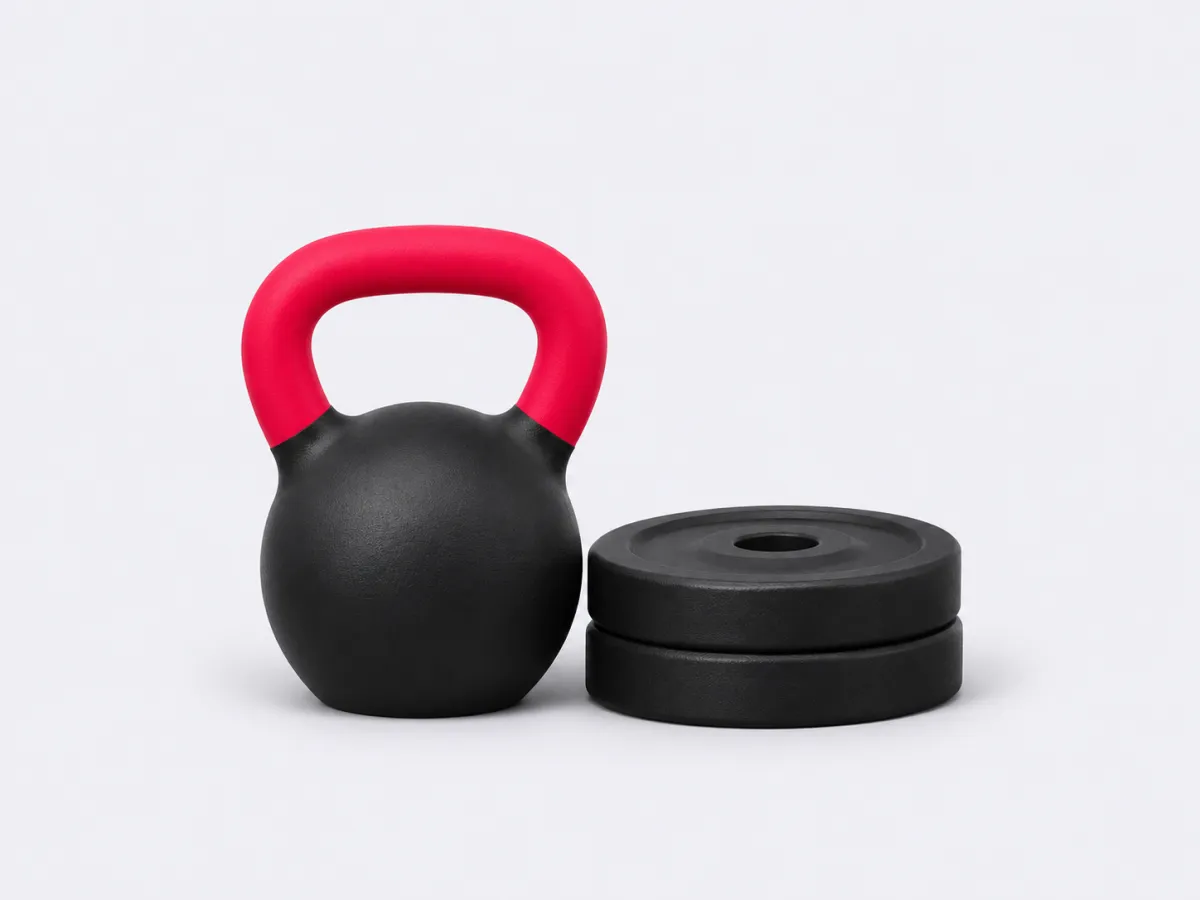
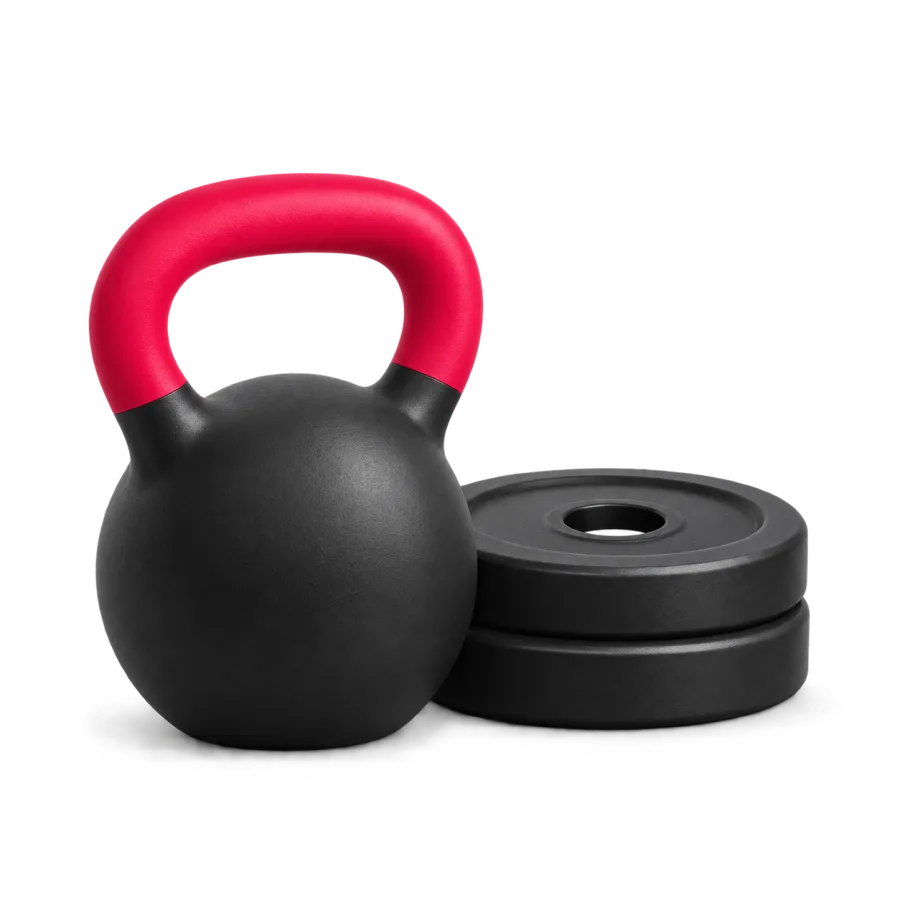
docs(F064): images stand alone, never as a background
After the owner's comments: an image now sits beside the headline with the
screens below it on clean canvas. Replaces the rejected rooms and close-ups with
transparent objects, miniatures and number posters to choose from.

Changed region(s): [[0.0933, 0.1867, 0.9022, 0.84]]

diff --git a/docs/design/website/site.js b/docs/design/website/site.js
@@ -4,7 +4,7 @@
   var EXTRA = ["richting", "prijzen", "demo", "support", "account-verwijderen", "privacy", "voorwaarden", "subverwerkers", "beeld"];
   var root = document.documentElement;
   var page = document.getElementById("page"), nav = document.getElementById("nav"), foot = document.getElementById("foot"), review = document.getElementById("review");
-  var S = { lang: "nl", who: "gym", kind: "pilates", demo: 0, plat: "pro", style: "rooms" };
+  var S = { lang: "nl", who: "gym", kind: "pilates", demo: 0, plat: "pro", style: "obj" };
   try { S.lang = localStorage.getItem("fivvi-site-lang") || "nl"; } catch (e) { /* storage unavailable */ }
 
   function t(x) { return x[S.lang === "en" ? 1 : 0]; }
@@ -27,19 +27,15 @@
     if (id.indexOf("web-") === 0) return '<div class="browser ' + (cls || "") + '">' + img(id, eager) + "</div>";
     return '<div class="phone ' + (id.indexOf("android") > -1 ? "android " : "") + (cls || "") + '">' + img(id, eager) + "</div>";
   }
-  /* the image-style comparison (#beeld): which photo each style uses for a subject */
-  var STYLE_KEY = { team: "gym", gym: "gym", pilates: "studio", yoga: "studio", pt: "pt", client: "client" };
-  function photoSrc(name, style) {
+  /* An audience's image stands on its own and is never a background (owner). */
+  var ART_KEY = { gym: "gym", studio: "studio", pt: "pt", klanten: "client" };
+  function art(k, style) {
     style = style || S.style;
-    return "assets/photos/" + (style === "obj" || style === "mov" ? style + "-" + STYLE_KEY[name] : name) + ".webp";
-  }
-  function photo(name, cls) { return '<img class="' + (cls || "") + '" src="' + photoSrc(name) + '" alt="" loading="lazy">'; }
-  /* a card's image: a photo, or for screens only a phone on the audience's tint */
-  function cardImage(k, style) {
-    style = style || S.style;
-    if (style !== "screens") return '<img class="ph" src="' + photoSrc(A[k].photo, style) + '" alt="" loading="lazy">';
-    var st = A[k].stage;
-    return '<div class="ph shot" style="--c:' + colour(A[k].colour) + '">' + device(st.phone || st.phones[0]) + "</div>";
+    if (style === "num") {
+      var n = P.styles.posters[k];
+      return '<div class="poster" style="--c:' + colour(n[0]) + '"><b class="num">' + n[1] + "</b><span>" + t(n[2]) + "</span></div>";
+    }
+    return '<img class="art" src="assets/photos/' + style + "-" + ART_KEY[k] + '.webp" alt="" loading="lazy">';
   }
   function colour(k) { return { priv: "var(--priv)", group: "var(--group)", ok: "var(--ok)", accent: "var(--accent)" }[k]; }
   function who(s) { return s.split("{who}").join(S.kind === "yoga" ? (S.lang === "en" ? "teacher" : "docent") : (S.lang === "en" ? "instructor" : "instructeur")); }
@@ -102,7 +98,7 @@
       '<li class="now"><span>' + t(UI.oneRow) + '</span><span class="tick">' + t(UI.oneRowD) + "</span></li></ul>" + device("web-agenda") + "</div></div></section>" +
       '<section><div class="wrap"><p class="eyebrow">' + t(UI.chainEye) + '</p><h2 class="h2">' + t(UI.chainH) + '</h2><p class="lead" style="margin-top:14px">' + t(UI.chainLead) + '</p><div class="chain" id="chain">' + chain() + "</div></div></section>" +
       '<section><div class="wrap"><p class="eyebrow">' + t(UI.forEye) + '</p><h2 class="h2">' + t(UI.forH) + '</h2><p class="lead" style="margin-top:14px">' + t(UI.forLead) + '</p><div class="cards">' +
-      ORDER.map(function (k) { return '<a class="acard" href="#' + k + '">' + cardImage(k) + "<div><h3>" + t(A[k].cardH) + "</h3><p>" + t(A[k].short) + '</p><span class="link">' + t(UI.readDay) + " →</span></div></a>"; }).join("") +
+      ORDER.map(function (k) { return '<a class="acard" href="#' + k + '">' + art(k) + "<div><h3>" + t(A[k].cardH) + "</h3><p>" + t(A[k].short) + '</p><span class="link">' + t(UI.readDay) + " →</span></div></a>"; }).join("") +
       "</div></div></section>" +
       '<section><div class="wrap"><p class="eyebrow">' + t(UI.platEye) + '</p><h2 class="h2">' + t(UI.platH) + '</h2><p class="lead" style="margin-top:14px">' + t(UI.platLead) + '</p><div class="who"><div class="seg" role="group" aria-label="' + t(UI.plat.pro.name) + " / " + t(UI.plat.client.name) + '">' + ["pro", "client"].map(function (k) { return '<button data-plat="' + k + '" aria-pressed="' + (S.plat === k) + '">' + t(UI.plat[k].name) + "</button>"; }).join("") + '</div></div><div id="devices">' + devices() + "</div>" +
       "</div></section>" + promises() + cta();
@@ -120,11 +116,10 @@
 
   function audience(k) {
     var a = A[k], isStudio = k === "studio";
-    var ph = isStudio && S.kind === "yoga" ? "yoga" : a.photo;
     var phone = isStudio ? "pro-today-" + S.kind : a.heroPhone;
     var kindSeg = isStudio ? '<div class="who"><p id="kind-l">' + t(UI.kindLabel) + '</p><div class="seg" role="group" aria-labelledby="kind-l">' + ["pilates", "yoga"].map(function (x) { return '<button data-kind="' + x + '" aria-pressed="' + (S.kind === x) + '">' + t(UI[x]) + "</button>"; }).join("") + "</div></div>" : "";
-    return '<div class="wrap hero ahero"><p class="eyebrow">' + t(a.cardH) + '</p><h1 style="margin-top:8px">' + t(a.h1) + '</h1><p class="lead">' + t(a.lead) + "</p>" + statusLine() + kindSeg +
-      '<div class="photo">' + (S.style === "screens" ? '<div class="blank" style="--c:' + colour(a.colour) + '"></div>' : '<img src="' + photoSrc(ph) + '" alt="">') + (a.heroWeb ? device(a.heroWeb, "", true) : "") + device(phone, "", true) + "</div></div>" +
+    var screens = a.heroWeb ? '<div class="swap mix">' + device(a.heroWeb, "", true) + '<div class="cell">' + device(phone, "", true) + "</div></div>" : '<div class="swap row">' + a.stage.phones.map(function (id) { return device(id, "", true); }).join("") + "</div>";
+    return '<div class="wrap hero ahero"><div class="herogrid"><div><p class="eyebrow">' + t(a.cardH) + '</p><h1 style="margin-top:8px">' + t(a.h1) + '</h1><p class="lead">' + t(a.lead) + "</p>" + statusLine() + kindSeg + '</div><div class="heroart">' + art(k) + '</div></div><div class="stage">' + screens + "</div></div>" +
       '<section style="padding-top:clamp(20px,4vw,48px)"><div class="wrap"><h2 class="h2">' + t(UI.recognise) + '</h2><ul class="pains">' + a.pains.map(function (p) { return "<li>" + t(p) + "</li>"; }).join("") + "</ul></div></section>" +
       '<section><div class="wrap"><p class="eyebrow">' + t(UI.dayEye) + '</p><p class="lead" style="margin-top:6px;color:var(--ink);font-weight:500">' + t(UI.dayLead) + '</p><div class="day">' +
       a.day.map(function (m) {
@@ -136,9 +131,7 @@
     var D = C.DIRECTION;
     return '<div class="wrap hero ahero"><p class="eyebrow">' + t(UI.direction) + '</p><h1 style="margin-top:8px">' + t(D.h1) + '</h1><p class="lead">' + t(D.lead) + '</p><p style="margin-top:14px"><a class="link" href="#beeld">' + t(P.styles.h1) + ' →</a></p><div class="dgrid">' +
       D.cards.map(function (c) { return '<div class="dcard"><h3>' + t(c[0]) + "</h3><p>" + t(c[1]) + "</p></div>"; }).join("") +
-      '</div><div class="dgrid"><div class="dcard"><h3>' + (S.lang === "en" ? "Colour" : "Kleur") + '</h3><div class="swatches"><i style="background:#F2F2F7"></i><i style="background:#FFFFFF"></i><i style="background:#000000"></i><i style="background:#1C1C1E"></i><i style="background:#E6164A"></i><i style="background:#0088FF"></i><i style="background:#CB30E0"></i><i style="background:#34C759"></i></div></div><div class="dcard"><h3>' + (S.lang === "en" ? "Type" : "Letter") + '</h3><div class="typeA">Vandaag</div><div class="typeB">07:30</div></div><div class="dcard"><h3>' + (S.lang === "en" ? "Corners and frames" : "Hoeken en lijsten") + "</h3><p>" + (S.lang === "en" ? "Radius 26 on every card, pills for every button, and iPhone, Android and laptop frames around real screens." : "Radius 26 op elke kaart, pillen voor elke knop, en iPhone-, Android- en laptoplijsten om echte schermen.") + '</p></div></div><div class="pair">' +
-      ["gym", "team", "pilates", "yoga", "pt", "client"].map(function (n) { return photo(n); }).join("") +
-      "</div></div>" + directionMore() + '<section><div class="wrap"><h2 class="h2">' + t(D.assumeH) + '</h2><ol class="olist" style="list-style:none;padding:0">' + D.assume.map(function (o) { return "<li><div><b>" + t(o[0]) + "</b><span>" + t(o[1]) + "</span></div></li>"; }).join("") + "</ol></div></section>";
+      '</div><div class="dgrid"><div class="dcard"><h3>' + (S.lang === "en" ? "Colour" : "Kleur") + '</h3><div class="swatches"><i style="background:#F2F2F7"></i><i style="background:#FFFFFF"></i><i style="background:#000000"></i><i style="background:#1C1C1E"></i><i style="background:#E6164A"></i><i style="background:#0088FF"></i><i style="background:#CB30E0"></i><i style="background:#34C759"></i></div></div><div class="dcard"><h3>' + (S.lang === "en" ? "Type" : "Letter") + '</h3><div class="typeA">Vandaag</div><div class="typeB">07:30</div></div><div class="dcard"><h3>' + (S.lang === "en" ? "Corners and frames" : "Hoeken en lijsten") + "</h3><p>" + (S.lang === "en" ? "Radius 26 on every card, pills for every button, and iPhone, Android and laptop frames around real screens." : "Radius 26 op elke kaart, pillen voor elke knop, en iPhone-, Android- en laptoplijsten om echte schermen.") + "</p></div></div></div>" + directionMore() + '<section><div class="wrap"><h2 class="h2">' + t(D.assumeH) + '</h2><ol class="olist" style="list-style:none;padding:0">' + D.assume.map(function (o) { return "<li><div><b>" + t(o[0]) + "</b><span>" + t(o[1]) + "</span></div></li>"; }).join("") + "</ol></div></section>";
   }
 
   function head(eye, h1, lead) { return '<div class="wrap hero ahero"><p class="eyebrow">' + t(eye) + '</p><h1 style="margin-top:8px">' + t(h1) + "</h1>" + (lead ? '<p class="lead">' + t(lead) + "</p>" : "") + statusLine(); }
@@ -181,7 +174,7 @@
     var X = P.styles;
     return head(X.eye, X.h1, X.lead) + X.list.map(function (o) {
       var on = S.style === o[0];
-      return '<section class="stylerow"><div class="stylehead"><div><h2>' + t(o[1]) + (o[0] === "obj" ? " <mark>" + t(X.rec) + "</mark>" : "") + "</h2><p>" + t(o[2]) + '</p></div><button class="btn ' + (on ? "tonal" : "primary") + ' small" data-style-pick="' + o[0] + '">' + t(on ? X.on : X.see) + '</button></div><div class="stylecards" data-style="' + o[0] + '">' + ORDER.map(function (k) { return '<div class="acard">' + cardImage(k, o[0]) + "<div><h3>" + t(A[k].cardH) + "</h3></div></div>"; }).join("") + "</div></section>";
+      return '<section class="stylerow"><div class="stylehead"><div><h2>' + t(o[1]) + (o[0] === "min" ? " <mark>" + t(X.rec) + "</mark>" : "") + "</h2><p>" + t(o[2]) + '</p></div><button class="btn ' + (on ? "tonal" : "primary") + ' small" data-style-pick="' + o[0] + '">' + t(on ? X.on : X.see) + '</button></div><div class="stylecards">' + ORDER.map(function (k) { return '<div class="acard">' + art(k, o[0]) + "<div><h3>" + t(A[k].cardH) + "</h3></div></div>"; }).join("") + "</div></section>";
     }).join("") + "</div>";
   }
 
@@ -199,7 +192,6 @@
   function render(keepScroll) {
     var y = window.scrollY, r = route();
     root.lang = S.lang === "en" ? "en" : "nl";
-    root.setAttribute("data-style", S.style);
     renderNav();
     var F = P.foot;
     page.innerHTML = r === "home" ? home() : r === "richting" ? direction() : r === "prijzen" ? pricing() : r === "demo" ? demo() : r === "support" ? support() : r === "account-verwijderen" ? deletion() : r === "privacy" ? legal("privacy", F.privacy) : r === "voorwaarden" ? legal("terms", F.terms) : r === "subverwerkers" ? subs() : r === "beeld" ? styles() : audience(r);

diff --git a/docs/design/website/site.css b/docs/design/website/site.css
@@ -155,25 +155,30 @@ section{padding:clamp(56px,8vw,104px) 0 0}
 .cards{display:grid;grid-template-columns:repeat(4,minmax(0,1fr));gap:14px;margin-top:36px}
 .acard{background:var(--card);border-radius:var(--r);overflow:hidden;display:flex;flex-direction:column;transition:transform .25s}
 .acard:hover{transform:translateY(-3px)}
-.acard .ph{aspect-ratio:4/3;object-fit:cover;width:100%}
+.acard .art{aspect-ratio:4/3;object-fit:contain;width:100%;padding:12px 0 0}
+.acard div.poster{aspect-ratio:4/3;flex:none;padding:18px;gap:4px}
+.acard .poster b{font-size:clamp(44px,5vw,64px)}
 .acard div{padding:18px 18px 20px;display:flex;flex-direction:column;gap:6px;flex:1}
 .acard h3{font-size:21px;line-height:1.15;letter-spacing:-.015em;font-weight:700}
 .acard p{color:var(--muted);font-size:15px;line-height:1.35;flex:1}
 .acard .link{margin-top:8px;font-size:15px}
 @media (max-width:980px){.cards{grid-template-columns:repeat(2,minmax(0,1fr))}}
 @media (max-width:460px){.cards{grid-template-columns:1fr}}
-.ph-dim{filter:none}
-:root[data-theme="dark"] .ph,:root[data-theme="dark"] .photo img{filter:brightness(.84)}
-@media (prefers-color-scheme:dark){:root:not([data-theme="light"]) .ph,:root:not([data-theme="light"]) .photo img{filter:brightness(.84)}}
 
-/* audience hero */
-.ahero h1{font-size:clamp(42px,6.8vw,84px);line-height:1;letter-spacing:-.036em;font-weight:700;max-width:13em}
+/* audience hero: words and image side by side, the screens below on clean canvas */
+.ahero h1{font-size:clamp(42px,6vw,76px);line-height:1;letter-spacing:-.036em;font-weight:700;max-width:13em}
 .ahero .lead{margin-top:18px}
-.photo{position:relative;margin-top:36px;padding-bottom:clamp(82px,10vw,130px)}
-.photo>img{width:100%;aspect-ratio:21/9;object-fit:cover;border-radius:var(--r)}
-.photo .phone{position:absolute;--w:clamp(150px,21vw,270px);right:clamp(16px,5vw,64px);bottom:6px}
-.photo .browser{position:absolute;width:clamp(240px,44vw,560px);left:clamp(16px,5vw,64px);bottom:0;box-shadow:0 0 0 .5px var(--sep),0 18px 50px rgba(0,0,0,.2)}
-@media (max-width:640px){.photo>img{aspect-ratio:4/3}.photo .browser{display:none}.photo{padding-bottom:110px}.photo .phone{--w:min(170px,42vw)}}
+.herogrid{display:grid;grid-template-columns:minmax(0,7fr) minmax(0,4fr);gap:clamp(20px,4vw,56px);align-items:center}
+.heroart .art{width:100%;aspect-ratio:1;object-fit:contain}
+.heroart .poster{aspect-ratio:1;border-radius:calc(var(--r)*1.4);padding:clamp(20px,3vw,34px)}
+.heroart .poster b{font-size:clamp(64px,8.6vw,124px)}
+.ahero .stage{margin-top:clamp(24px,4vw,48px)}
+@media (max-width:760px){.herogrid{grid-template-columns:1fr}.heroart{max-width:280px}}
+
+/* the numbers style: the app's gradient card as a poster */
+.poster{display:flex;flex-direction:column;justify-content:flex-end;gap:6px;color:#fff;background:linear-gradient(color-mix(in srgb,var(--c) 85%,#000),color-mix(in srgb,var(--c) 75%,#000))}
+.poster b{font-weight:800;line-height:1;letter-spacing:-.03em}
+.poster span{font-size:15px;line-height:1.25;font-weight:600}
 
 /* pains */
 .pains{display:grid;grid-template-columns:repeat(3,minmax(0,1fr));gap:14px;margin-top:32px}
@@ -233,12 +238,8 @@ section{padding:clamp(56px,8vw,104px) 0 0}
 .stylehead p{color:var(--muted);margin-top:6px;max-width:44em;text-wrap:pretty}
 .stylecards{display:grid;grid-template-columns:repeat(4,minmax(0,1fr));gap:12px;margin-top:18px}
 .stylecards .acard:hover{transform:none}
-.stylecards .acard>div:not(.ph){padding:12px 14px 14px}
+.stylecards .acard>div:not(.poster){padding:12px 14px 14px}
 .stylecards .acard h3{font-size:15px;letter-spacing:0}
-.acard .ph.shot{aspect-ratio:4/3;width:100%;overflow:hidden;background:color-mix(in srgb,var(--c) 10%,transparent);display:flex;flex-direction:row;justify-content:center;align-items:flex-start;padding:18px 0 0;flex:none;gap:0}
-.acard .ph.shot .phone{width:58%;--w:100px;padding:0;flex:none;border-radius:18px;box-shadow:0 0 0 4px var(--bezel)}
-.photo .blank{width:100%;aspect-ratio:21/9;border-radius:var(--r);background:color-mix(in srgb,var(--c) 10%,var(--card))}
-:root[data-style="obj"] .photo>img{aspect-ratio:4/3;width:auto;height:clamp(240px,36vw,505px);margin:0 auto;object-fit:cover;-webkit-mask-image:radial-gradient(ellipse at center,#000 62%,transparent 72%);mask-image:radial-gradient(ellipse at center,#000 62%,transparent 72%);border-radius:0}
 @media (max-width:760px){.stylecards{grid-template-columns:repeat(2,minmax(0,1fr))}}
 
 /* closing call to action */
@@ -341,9 +342,6 @@ mark{background:color-mix(in srgb,var(--accent) 14%,transparent);color:var(--acc
 .olist li{counter-increment:o;display:grid;grid-template-columns:34px 1fr;padding:18px 22px;box-shadow:inset 0 -.5px 0 var(--sep)}
 .olist li::before{content:counter(o);font:800 19px var(--f-num);color:var(--accent-text)}
 .olist b{font-weight:600}.olist span{display:block;color:var(--muted);font-size:15px;line-height:1.4;margin-top:2px;text-wrap:pretty}
-.pair{display:grid;grid-template-columns:repeat(3,minmax(0,1fr));gap:10px;margin-top:28px}
-.pair img{border-radius:18px;aspect-ratio:16/9;object-fit:cover;width:100%}
-@media (max-width:640px){.pair{grid-template-columns:repeat(2,minmax(0,1fr))}}
 
 /* footer */
 .foot{margin-top:clamp(56px,8vw,96px);border-top:.5px solid var(--sep);padding:40px 0 92px;color:var(--muted);font-size:14px}

diff --git a/docs/design/website/content.js b/docs/design/website/content.js
@@ -76,7 +76,7 @@ window.COPY = (function () {
 
   var A = {
     gym: {
-      nav: ["Sportscholen", "Gyms"], who: ["Sportschool met team", "Gym with a team"], photo: "team", colour: "priv",
+      nav: ["Sportscholen", "Gyms"], who: ["Sportschool met team", "Gym with a team"], colour: "priv",
       short: ["Eén agenda voor al je trainers, en altijd zicht op wie er nog moet betalen.", "One calendar for all your trainers, and always a clear view of who still has to pay."],
       cardH: ["Sportscholen met een team", "Gyms with a team"],
       stage: { web: "web-dashboard", phone: "pro-today-gym" },
@@ -95,7 +95,7 @@ window.COPY = (function () {
       ]
     },
     studio: {
-      nav: ["Studio's", "Studios"], who: ["Studio", "Studio"], photo: "pilates", colour: "group",
+      nav: ["Studio's", "Studios"], who: ["Studio", "Studio"], colour: "group",
       short: ["Volle lessen, een nette wachtlijst en klanten die zelf boeken.", "Full classes, a tidy waitlist and clients who book themselves."],
       cardH: ["Pilates- en yogastudio's", "Pilates and yoga studios"],
       stage: { web: "web-class-pilates", phone: "pro-today-pilates" },
@@ -113,7 +113,7 @@ window.COPY = (function () {
       ]
     },
     pt: {
-      nav: ["Personal trainers", "Personal trainers"], who: ["Personal trainer", "Personal trainer"], photo: "pt", colour: "priv",
+      nav: ["Personal trainers", "Personal trainers"], who: ["Personal trainer", "Personal trainer"], colour: "priv",
       short: ["Je hele dag in je broekzak: wie er komt, wat jullie vorige keer deden en wat er nog over is.", "Your whole day in your pocket: who's coming, what you did last time and what's left."],
       cardH: ["Personal trainers", "Personal trainers"],
       stage: { phones: ["pro-today-solo", "pro-log", "pro-client"] },
@@ -131,7 +131,7 @@ window.COPY = (function () {
       ]
     },
     klanten: {
-      nav: ["Klanten", "Clients"], who: ["Klant", "Client"], photo: "client", colour: "accent",
+      nav: ["Klanten", "Clients"], who: ["Klant", "Client"], colour: "accent",
       short: ["Boek je les in een paar tikken en zie altijd wat je nog tegoed hebt.", "Book your class in a few taps and always see what's on your balance."],
       cardH: ["En hun klanten", "And their clients"],
       stage: { phones: ["app-home", "app-book", "app-credit"] },
@@ -197,7 +197,7 @@ window.COPY = (function () {
     cards: [
       [["Calendar calm, Fitness pops", "Calendar calm, Fitness pops"], ["Dezelfde taal als de app: grijs canvas, witte kaarten, één accent. De tijden en gekleurde balken komen uit Agenda, en de dag is de rode draad.", "The same language as the app: grey canvas, white cards, one accent. The times and coloured bars come from Calendar, and the day is the thread."]],
       [["Schermen eerst", "Screens first"], ["De echte schermen zijn het bewijs. Ze komen met een script uit het prototype, in NL en EN, licht en donker, dus ze blijven kloppen als het ontwerp verandert.", "The real screens are the proof. A script captures them from the prototype, in Dutch and English, light and dark, so they stay right when the design changes."]],
-      [["Foto's voor de sfeer", "Photos for atmosphere"], ["Gemaakt met je ChatGPT-abonnement via Codex. Geen mensen, tekst of logo's, dus niets lijkt op een echte klant. Echte foto's van de pilot kunnen ze later vervangen.", "Made with your ChatGPT subscription through Codex. No people, text or logos, so nothing passes for a real client. Real pilot photos can replace them later."]],
+      [["Beeld staat op zichzelf", "Images stand alone"], ["Nooit als achtergrond achter schermen of tekst. Gemaakt met je ChatGPT-abonnement via Codex, zonder mensen of logo's. Echte foto's van de pilot kunnen later bij.", "Never as a background behind screens or text. Made with your ChatGPT subscription through Codex, without people or logos. Real pilot photos can join later."]],
       [["Vier verhalen, één site", "Four stories, one site"], ["De keuze \"Ik ben\" bepaalt wat je ziet. Sportschool, studio, PT en klant krijgen elk hun eigen dag, hun eigen problemen en hun eigen woorden.", "The \"I am\" choice decides what you see. Gym, studio, PT and client each get their own day, their own problems and their own words."]],
       [["Niets verzonnen", "Nothing made up"], ["Geen getallen of klantverhalen die we niet hebben. De teksten volgen PRODUCT.md en DECISIONS.md. Bewijs van de pilot komt erbij zodra het er is.", "No numbers or testimonials we don't have. The words follow PRODUCT.md and DECISIONS.md. Proof from the pilot goes in once it exists."]],
       [["Eén gewaagd moment", "One bold moment"], ["De kop is groot, de rest is stil. Het enige dat beweegt is de boeking op de homepagina, waar je zelf ziet dat alles klopt.", "The headline is big, the rest is quiet. The only thing that moves is the booking on the homepage, where you see for yourself that it all adds up."]]

diff --git a/docs/design/website/pages.js b/docs/design/website/pages.js
@@ -110,14 +110,19 @@ window.PAGES = (function () {
     styles: {
       eye: ["Beeldstijl", "Image style"],
       h1: ["Welke beeldstijl past bij Fivvi?", "Which image style fits Fivvi?"],
-      lead: ["Vier richtingen op dezelfde kaarten. Met de knop zie je een stijl overal op de site. Zeg welke je wilt, of wat je anders wilt.", "Four directions on the same cards. The button shows a style across the whole site. Tell me which you want, or what you'd change."],
+      lead: ["Drie richtingen op dezelfde kaarten. Met de knop zie je een stijl overal op de site. Zeg welke je wilt, of wat je anders wilt.", "Three directions on the same cards. The button shows a style across the whole site. Tell me which you want, or what you'd change."],
       see: ["Bekijk op de site", "See it on the site"], on: ["Staat nu aan", "Currently on"], rec: ["Mijn advies", "My advice"],
       list: [
-        ["obj", ["Objecten", "Objects"], ["Eén object op het grijs van de app, met roze als enige kleur. Strak en rustig, net als Fivvi zelf. Er staat niemand op, dus niets lijkt op een echte klant.", "One object on the app's grey, with pink as the only colour. Crisp and calm, just like Fivvi itself. Nobody's in it, so nothing passes for a real client."]],
-        ["screens", ["Alleen schermen", "Screens only"], ["Geen foto's: Fivvi zelf is het beeld. Het eerlijkst, en het klopt altijd. Wel minder sfeer, en de pagina's lijken meer op elkaar.", "No photos: Fivvi itself is the image. The most honest, and it's always right. Less atmosphere, though, and the pages look more alike."]],
-        ["mov", ["In beweging", "In motion"], ["Zwart-wit, van dichtbij, met een randje roze. Veel energie, maar minder rustig dan de app. Handen en voeten van AI vallen hier snel op, dus dit vraagt streng nakijken.", "Black and white, close up, with a rim of pink. Lots of energy, but less calm than the app. AI hands and feet show quickly here, so this needs strict checking."]],
-        ["rooms", ["Ruimtes", "Rooms"], ["De foto's van nu: lege studio's in zacht daglicht. Warm, maar het lijkt op stockfoto's en het staat los van de app.", "The current photos: empty studios in soft daylight. Warm, but they look like stock photos and feel separate from the app."]]
-      ]
+        ["obj", ["Objecten", "Objects"], ["Eén object met roze als enige kleur, los op de pagina en nooit achter iets. Strak en rustig, net als Fivvi zelf.", "One object with pink as the only colour, standing free on the page and never behind anything. Crisp and calm, just like Fivvi itself."]],
+        ["min", ["Miniaturen", "Miniatures"], ["Een klein 3D-wereldje voor elke doelgroep: de sportschool, de studio, het park en de ingang. Speels en het blijft hangen, maar minder strak dan de app.", "A small 3D world for each audience: the gym, the studio, the park and the entrance. Playful and memorable, but less crisp than the app."]],
+        ["num", ["Cijfers", "Numbers"], ["Geen foto's, maar de gradientkaarten en ronde cijfers van de app als poster. Zonder AI, dus niets kan nep lijken. Het is ook het meest eigen aan Fivvi.", "No photos, but the app's gradient cards and rounded numbers as posters. No AI, so nothing can look fake. It's also the most Fivvi of the three."]]
+      ],
+      posters: {
+        gym: ["priv", "4", ["trainers tegelijk, één agenda", "trainers at once, one calendar"]],
+        studio: ["group", "6/6", ["Vol, en 2 op de wachtlijst", "Full, and 2 on the waitlist"]],
+        pt: ["ok", "07:30", ["Je eerste klant, en je weet al alles", "Your first client, and you know it all"]],
+        klanten: ["accent", "7", ["groepscredits over", "group credits left"]]
+      }
     },
     direction: {
       decidedH: ["Wat je hebt besloten", "What you decided"],

diff --git a/docs/design/website/README.md b/docs/design/website/README.md
@@ -17,26 +17,14 @@ node docs/design/website/build-legal.cjs
 | `content.js`, `pages.js` | The words, Dutch first; a few on the design-choices page sit in `site.js` |
 | `capture.cjs` | Captures the prototype's screens, in Dutch and English, light and dark |
 | `build-legal.cjs` | Makes `legal.js` from `docs/legal`, so the legal pages show the current drafts |
-| `assets/photos/` | The photos |
+| `assets/photos/` | The images |
 
-## Photos
+## Images
 
-Generated with Codex's built-in `image_gen` tool on the owner's ChatGPT subscription. They're atmosphere only: the real screens do the explaining. No people, text or logos, so no image can pass for a real customer. The shared style:
+Generated with Codex's built-in `image_gen` tool on the owner's ChatGPT subscription, with transparent backgrounds and no people, text or logos. An image stands on its own beside the words, and is never a background behind screens or text (owner). The owner is choosing between three styles at `#beeld`; the unused ones then leave this folder.
 
-> Editorial architecture photography, 35mm, soft natural daylight, muted warm neutrals with one small accent of soft pink, calm and uncluttered, believable materials. Wide landscape. No people, no text, no logos, no watermark.
+- **Objects** (`obj-*`): *clean Apple-like product photography of one simple matte fitness object group, soft even studio light, a subtle soft contact shadow, one crisp accent colour of vivid pink #E6164A, everything else black, white or grey.*
+- **Miniatures** (`min-*`): *a miniature isometric 3D diorama on a small rounded square base, matte clay materials, soft even light, simple rounded forms, tidy and calm, palette of white, light grey and charcoal with one crisp accent colour of vivid pink #E6164A.*
+- **Numbers:** no images. The app's gradient card as a poster, in CSS.
 
-| File | Subject |
-|---|---|
-| `gym` | A small boutique training studio in a Dutch canal house: large windows, oak floor, a bench and kettlebells, an empty wall on the left |
-| `team` | A larger, tidy gym floor in a converted Dutch warehouse: squat racks, benches and a strip of turf, brick walls, steel-framed windows |
-| `pilates` | A bright white pilates studio with six wooden reformers in a neat row, pale oak floor, tall windows |
-| `yoga` | A warm yoga room with rolled mats and cork blocks stacked along an oak floor, linen curtains, late afternoon light |
-| `pt` | A quiet Dutch city park at first light: a rolled mat, a kettlebell and a water bottle on the grass beside a path |
-| `client` | A simple wooden bench by a studio door: a sports bag, a folded towel and a water bottle, soft window light |
-
-## Image styles being compared
-
-`#beeld` shows these next to the rooms above and next to screens only. The owner picks one; the others then leave this folder.
-
-- **Objects** (`obj-*`): *clean Apple-like product photography, one simple matte fitness object group centred on a plain seamless light grey #F2F2F7 background, soft even studio light, a soft contact shadow, lots of empty space, one crisp accent colour of vivid pink #E6164A, everything else black, white or grey.*
-- **In motion** (`mov-*`): *bold high-contrast black-and-white sports photography, very close crop on hands or feet only, dramatic side light on a near-black background, real texture and motion, with one thin rim of vivid pink #E6164A light as the only colour.*
+Rejected by the owner: empty rooms (they looked like stock photos) and screens only (the pages already have screens).

diff --git a/docs/design/prototype-v2/DECISIONS.md b/docs/design/prototype-v2/DECISIONS.md
@@ -433,7 +433,7 @@ Designed with the owner on 6 November 2026 in its own artifact, [Fivvi Website](
 - **Mollie is named** on the site (owner), with iDEAL next to it.
 - **Dutch copy says *sportschool*,** as `packages/i18n/GLOSSARY.md` asks, at `/sportscholen`; English says *gyms*.
 - **Platforms (owner):** the section shows what owners and trainers use and what clients use, each on iPhone, Android and in the browser: Fivvi Pro and the trainer web, Fivvi and the client web.
-- **Images:** real screens first. Photos are for atmosphere, without people, so nothing passes for a real customer.
+- **Images:** real screens first. Next to them an image that stands on its own beside the words, never as a background behind screens or text (owner). No people, so nothing passes for a real customer. Empty rooms and screens only were rejected (owner); the choice between objects, miniatures and numbers is open at `#beeld`.
 - **Nothing made up:** no figures, testimonials or ratings until they exist.
 
 **Assumptions, not yet confirmed by the owner:**
